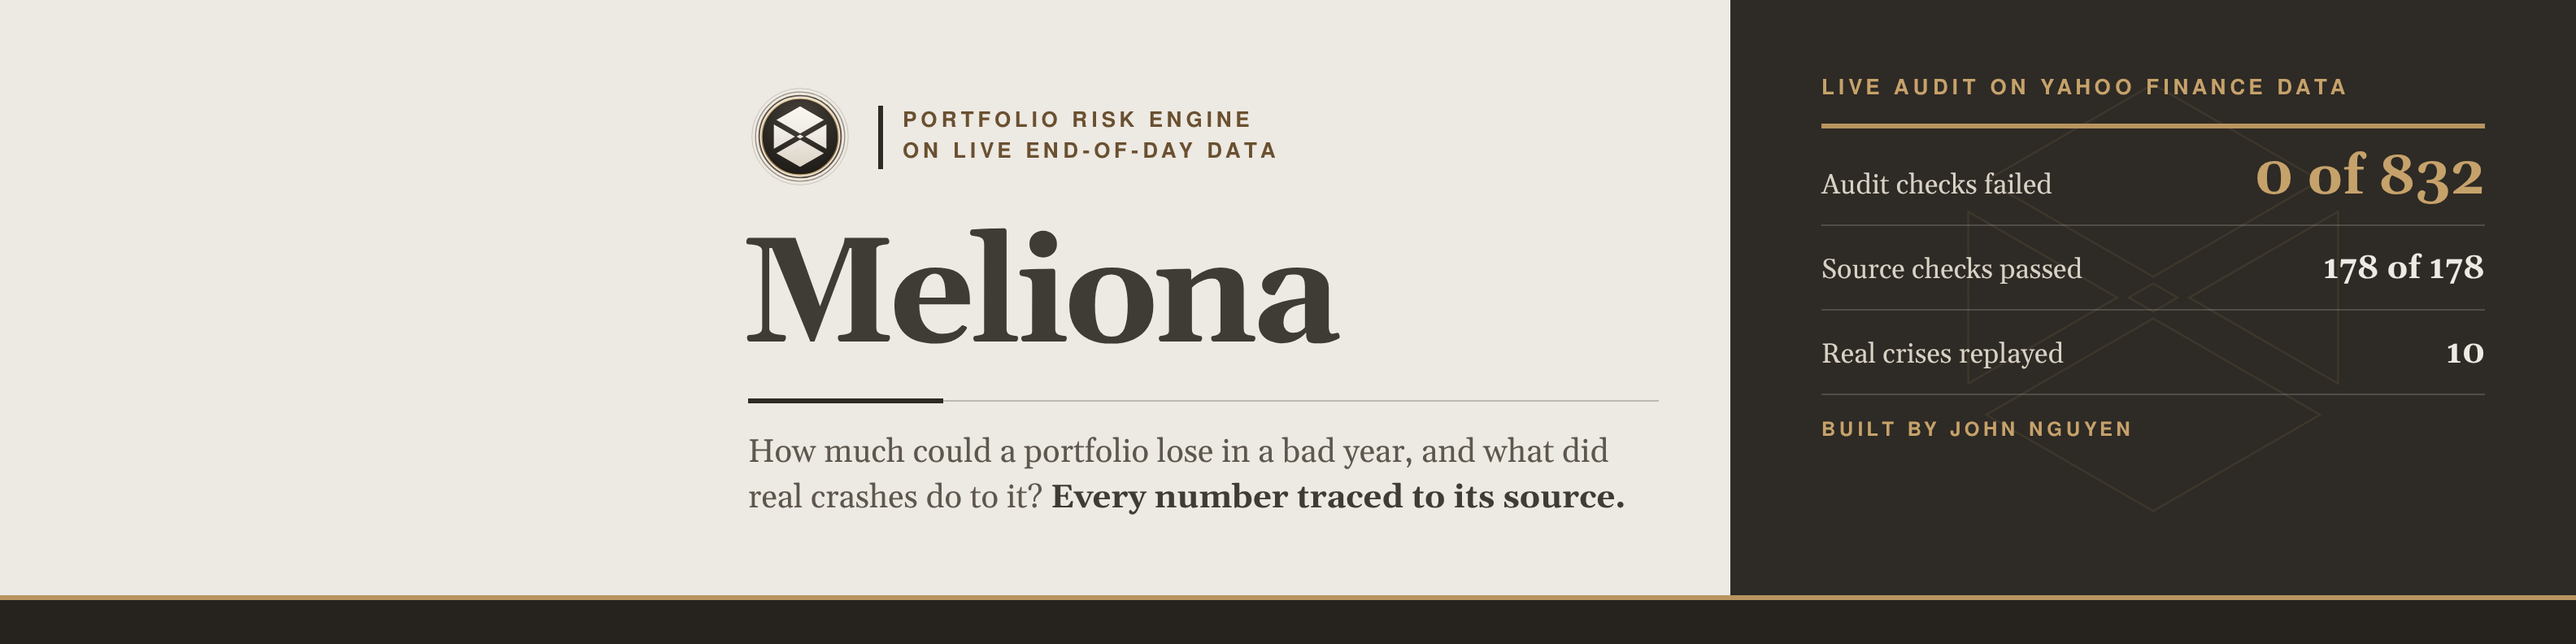
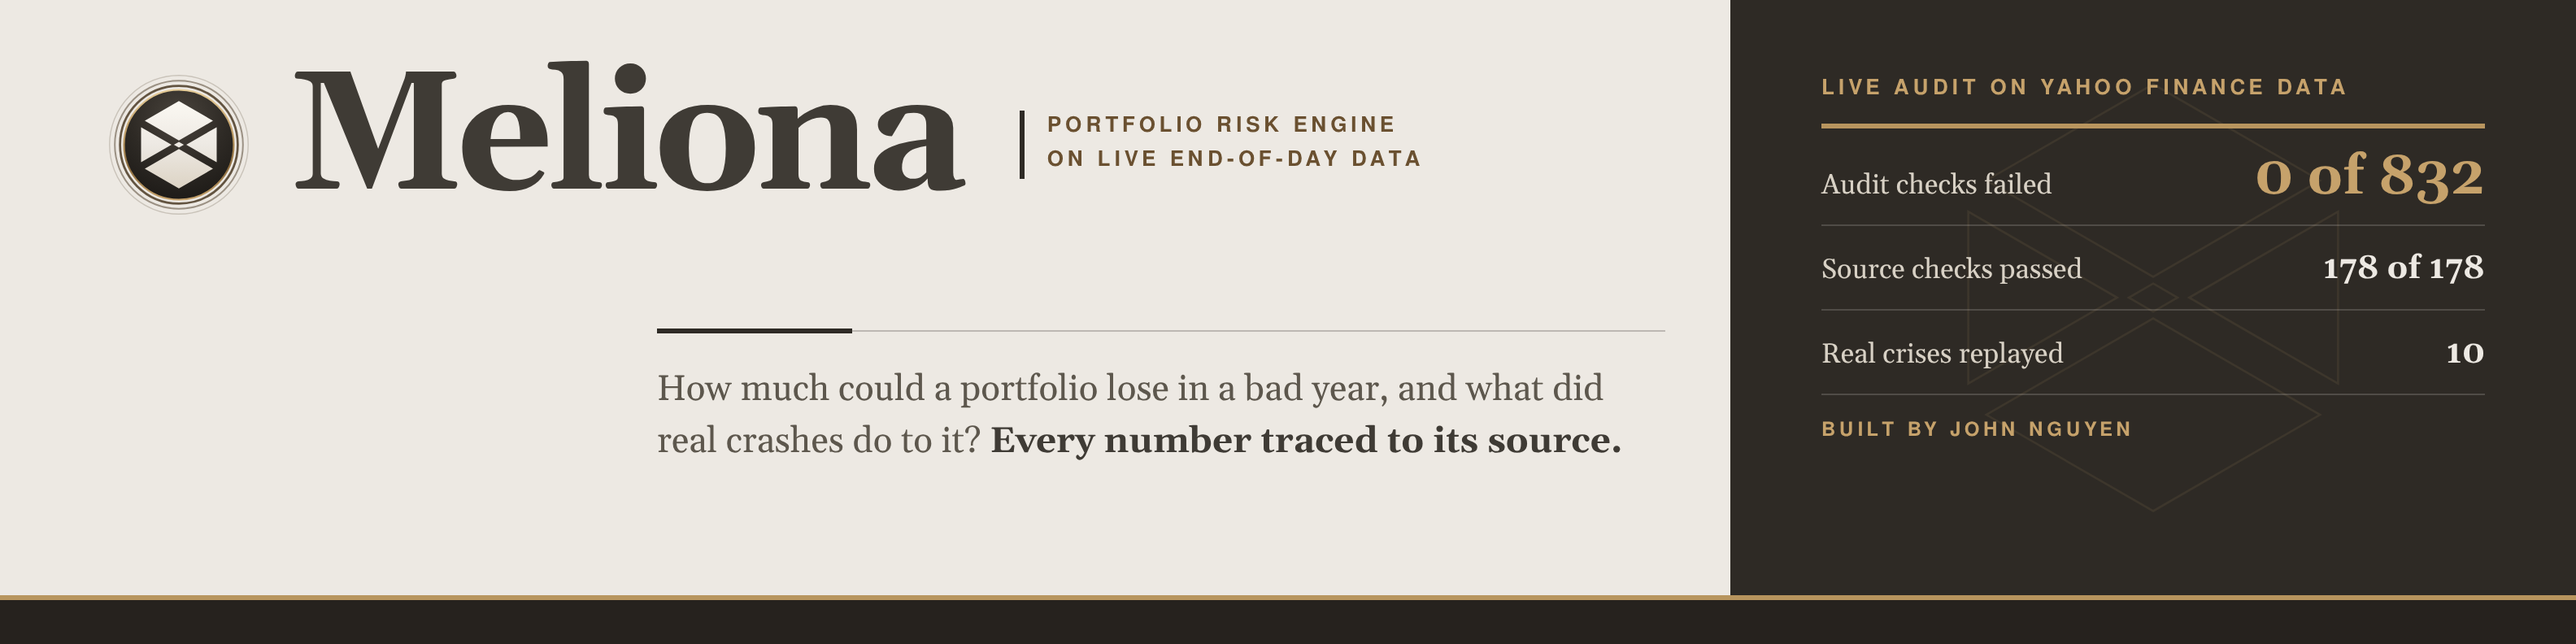
Fill the empty left side of my LinkedIn cover (#80)

diff --git a/tools/linkedin_banner.html b/tools/linkedin_banner.html
@@ -7,9 +7,11 @@
      paper, a charcoal stone block with the live-audit receipt, the faint crest
      engraved behind it, a stone plinth with a gold cap, Georgia's metric twin
      (Gelasio) for words and Helvetica's design (FreeSans) for labels.
-     LinkedIn lays the profile photo over the lower left (about 0-420px wide on
-     desktop, and centred-left on a phone), so that corner carries nothing but
-     paper and the plinth; the words start at 460px.
+     LinkedIn lays the profile photo over the lower left (about 40-360px wide,
+     from about 175px down), so only that spot stays clear: the crest, the name
+     and the kicker run across the top from the 64px margin, and the rule and
+     claim sit right of the photo, from 404px (John, 2026-11-17: "I don't like
+     the empty space"; test_the_linkedin_cover_leaves_no_empty_corner_beside_the_photo).
 
      The receipt's figures are copied from audit/live_audit_2026-11-13T101321Z.md,
      the same audit the share image quotes; update both together. -->
@@ -37,16 +39,17 @@ body { position: relative; color: var(--ink); font-family: var(--serif);
 .stone svg.engraving { position: absolute; left: 50%; top: 50%; width: 300px; height: 300px;
                        transform: translate(-50%, -50%); }
 
-.field { position: absolute; left: 460px; top: 52px; width: 560px; }
-.mark { display: flex; align-items: center; gap: 16px; }
-.mark svg { width: 64px; height: 64px; flex: none; }
-.kicker { font: 700 13px/1.5 var(--sans); letter-spacing: .2em; text-transform: uppercase;
-          color: var(--bronze-text); border-left: 3px solid var(--stone); padding-left: 12px; }
-h1 { font: 700 92px/0.9 var(--serif); letter-spacing: -0.035em; color: var(--ink); margin: 26px 0 0 -4px; }
-.rule { position: relative; height: 3px; margin-top: 20px; }
+.field { position: absolute; left: 64px; top: 40px; width: 960px; }
+.head { display: flex; align-items: center; gap: 22px; }
+.head svg { width: 92px; height: 92px; flex: none; }
+h1 { font: 700 104px/1 var(--serif); letter-spacing: -0.035em; color: var(--ink); margin-top: -6px; }
+.kicker { font: 700 13px/1.6 var(--sans); letter-spacing: .2em; text-transform: uppercase;
+          color: var(--bronze-text); border-left: 3px solid var(--stone); padding-left: 14px; margin-left: 14px; }
+.body { margin-left: 340px; margin-top: 64px; }
+.rule { position: relative; height: 3px; }
 .rule::before { content: ""; position: absolute; left: 0; right: 0; top: 1px; height: 1px; background: var(--ink); opacity: .28; }
 .rule::after { content: ""; position: absolute; left: 0; top: 0; width: 120px; height: 3px; background: var(--stone); }
-.claim { font: 400 20px/1.4 var(--serif); color: var(--ink-2); margin-top: 16px; max-width: 540px; }
+.claim { font: 400 22px/1.45 var(--serif); color: var(--ink-2); margin-top: 20px; max-width: 620px; text-wrap: pretty; }
 .claim b { font-weight: 700; color: var(--ink); }
 
 .receipt { position: absolute; top: 46px; right: 56px; width: 408px; color: var(--paper); }
@@ -75,10 +78,11 @@ h1 { font: 700 92px/0.9 var(--serif); letter-spacing: -0.035em; color: var(--ink
 </div>
 
 <div class="field">
-  <div class="mark"><!--CREST--><p class="kicker">Portfolio risk engine<br>on live end-of-day data</p></div>
-  <h1>Meliona</h1>
-  <div class="rule"></div>
-  <p class="claim">How much could a portfolio lose in a bad year, and what did real crashes do to it? <b>Every number traced to its source.</b></p>
+  <div class="head"><!--CREST--><h1>Meliona</h1><p class="kicker">Portfolio risk engine<br>on live end-of-day data</p></div>
+  <div class="body">
+    <div class="rule"></div>
+    <p class="claim">How much could a portfolio lose in a bad year, and what did real crashes do to it? <b>Every number traced to its source.</b></p>
+  </div>
 </div>
 
 <div class="receipt">

diff --git a/tests/test_engine.py b/tests/test_engine.py
@@ -4598,6 +4598,22 @@ def test_the_link_preview_quotes_the_newest_live_audit():
                 f"the cover's {label!r} figure {f} is not in {newest.name}"
 
 
+def test_the_linkedin_cover_leaves_no_empty_corner_beside_the_photo():
+    """John, 2026-11-17: "I don't like the empty space". LinkedIn lays the
+    profile photo over the cover's lower left, so only that spot stays clear:
+    the crest and name start at the 64px margin across the top, and the words
+    below them start right of the photo (past 400px)."""
+    import re
+    root = pathlib.Path(__file__).resolve().parent.parent
+    cover = (root / "tools" / "linkedin_banner.html").read_text(encoding="utf-8")
+    field = re.search(r"\.field \{[^}]*left: (\d+)px", cover)
+    assert field and int(field.group(1)) == 64, "the crest and name do not start at the 64px margin"
+    body = re.search(r"\.body \{[^}]*margin-left: (\d+)px", cover)
+    assert body and 64 + int(body.group(1)) >= 400, "the words under the name run into the photo's spot"
+    head = cover[cover.index('<div class="head">'):cover.index('<div class="body">')]
+    assert "<!--CREST-->" in head and "<h1>Meliona</h1>" in head, "the top row is not the crest and the name"
+
+
 def test_public_files_give_crawlers_and_link_previews_a_real_head(tmp_path=None):
     """LinkedIn/Slack previews and search crawlers do not run JavaScript, so
     tools/public_files.py writes the head they read into Streamlit's static

diff --git a/docs/design/DESIGN-RULES.md b/docs/design/DESIGN-RULES.md
@@ -378,7 +378,9 @@ Details, the porting rules and what was turned down are in the `ui-sources` skil
   - Leave out: fan charts, stat tiles, eyebrow capitals, italic subtitles and the date. Avoid a phrase like "727 of 728", which reads as one failure.
   - Layout: twelve columns, 64px margins, 24px gutters; a stone block from column 8 to the edge with the faint crest; a plinth with a gold cap. Gelasio and FreeSans as Georgia/Helvetica stand-ins. No gradients outside the crest, no rounded cards, glow or shadow.
   - — "weight, stability and defense; Swiss discipline, primitive shapes and chevrons, real architecture" (2026-11-05); "the image carries no date"; preview figures (2026-11-13) — `test_the_link_preview_quotes_the_newest_live_audit`.
-- **LinkedIn cover:** the same system cut into a strip. The lower-left corner carries nothing (the profile photo sits there); words start at 460px; it uses the same audit receipt as the share image.
+- **LinkedIn cover:** the same system cut into a strip, using the same audit receipt as the share image.
+  - No empty space: only the profile photo's spot (lower left) stays clear. The crest, the name and the kicker run across the top from the 64px margin; the rule and claim sit right of the photo, from 404px.
+  - — "I don't like the empty space", 2026-11-17 (it used to leave 0–460px blank) — `test_the_linkedin_cover_leaves_no_empty_corner_beside_the_photo`.
 
 ## Loading and app feel
 
